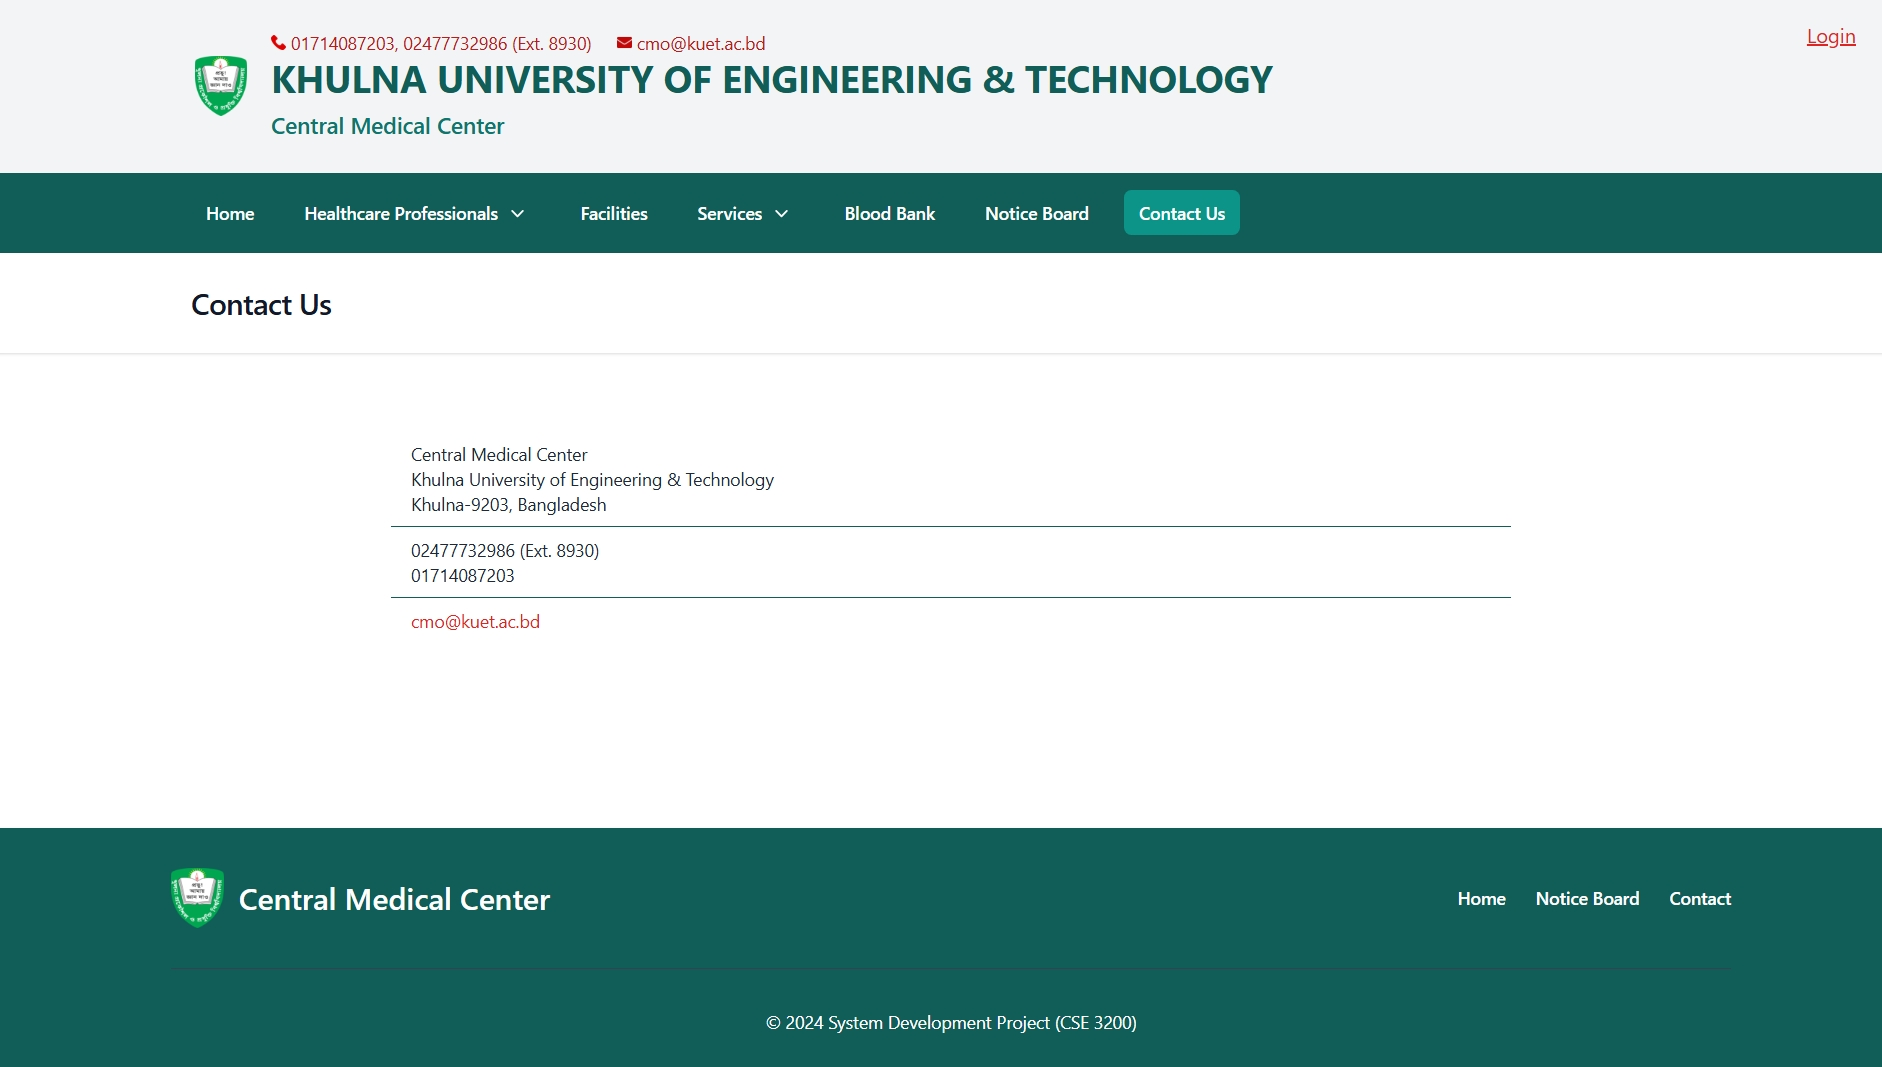
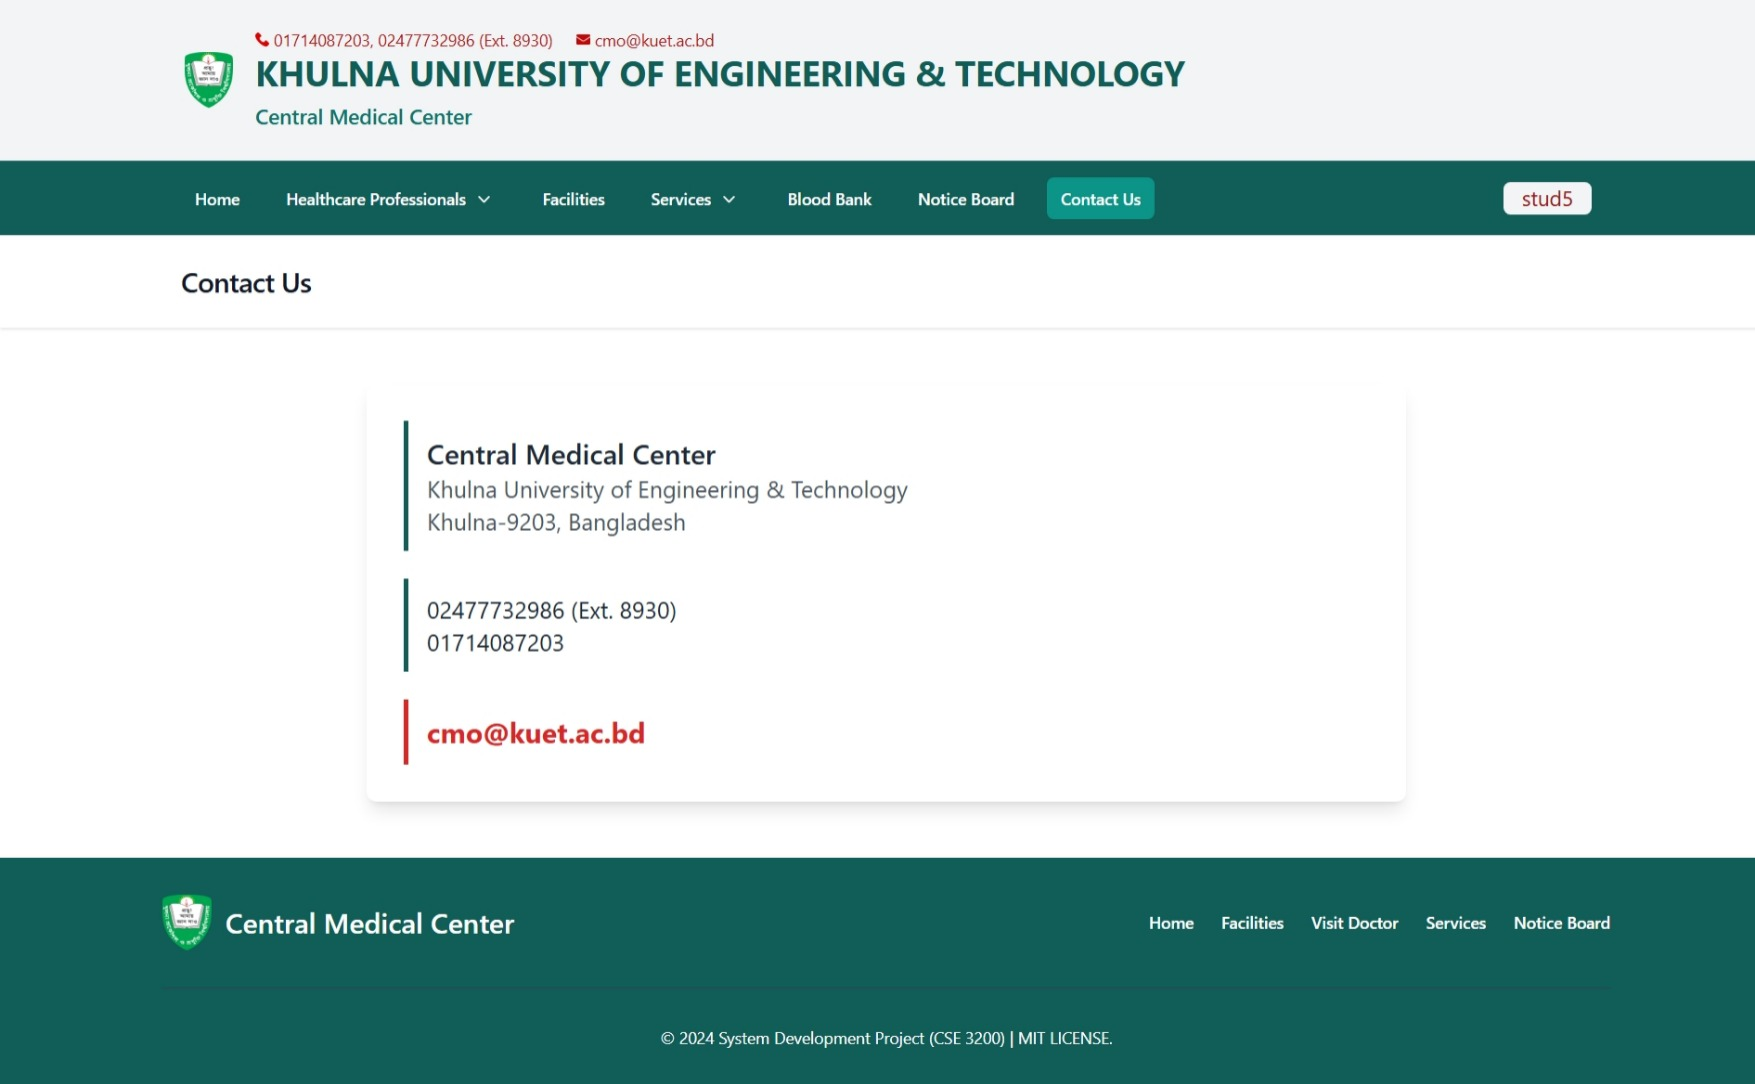
Contact Page updated

diff --git a/resources/views/user/contact.blade.php b/resources/views/user/contact.blade.php
@@ -1,41 +1,31 @@
 <x-mainlayout :title="'Contact - KUET Medical Center'" :heading="'Contact Us'">
 
-    <div class="flex justify-center items-center h-[380px]">
-        <div class="overflow-x-auto pt-12 h-[350px] w-full max-w-4xl">
+    <div class="flex justify-center items-center h-auto py-12">
+        <div class="w-full max-w-4xl bg-white shadow-lg rounded-lg p-6 sm:p-8">
             @if($contact)
-            <table class="min-w-full divide-y-2 divide-gray-200 bg-white text-sm">
-    
-                <tbody class="divide-y divide-teal-800">
-                    <tr>
-                        <td class="whitespace-nowrap px-4 py-2 text-gray-800">
-                            <p>{{ $contact->title }}</p>
-                            <p>{{ $contact->organization }}</p>
-                            <p>{{ $contact->location }}</p>
-                        </td>
+                <div class="space-y-6">
+                    <!-- Title, Organization, Location -->
+                    <div class="border-l-4 border-teal-800 pl-4 py-3">
+                        <p class="text-lg sm:text-xl md:text-2xl font-semibold text-gray-800">{{ $contact->title }}</p>
+                        <p class="text-base sm:text-lg md:text-xl text-gray-600">{{ $contact->organization }}</p>
+                        <p class="text-base sm:text-lg md:text-xl text-gray-600">{{ $contact->location }}</p>
+                    </div>
 
-                        
-                        
-                    </tr>
+                    <!-- Telephone & Mobile -->
+                    <div class="border-l-4 border-teal-800 pl-4 py-3">
+                        <p class="text-base sm:text-lg md:text-xl text-gray-800">{{ $contact->telephone }}</p>
+                        <p class="text-base sm:text-lg md:text-xl text-gray-800">{{ $contact->mobile }}</p>
+                    </div>
 
-                    <tr>
-                        <td class="whitespace-nowrap px-4 py-2 text-gray-800">
-                            <p>{{ $contact->telephone }}</p>
-                            <p>{{ $contact->mobile }}</p>
-                        </td>
-                    </tr>
-
-                    <tr>
-                        <td class="whitespace-nowrap px-4 py-2 text-red-600">{{ $contact->email }}</td>
-                    </tr>
-    
-                    
-                </tbody>
-            </table>
+                    <!-- Email -->
+                    <div class="border-l-4 border-red-600 pl-4 py-3">
+                        <p class="text-lg sm:text-xl md:text-2xl font-bold text-red-600">{{ $contact->email }}</p>
+                    </div>
+                </div>
             @else 
-            <h1>Information Not Available</h1>
+                <h1 class="text-lg sm:text-xl md:text-2xl font-bold text-center">Information Not Available</h1>
             @endif
         </div>
     </div>
-    
 
 </x-mainlayout>
